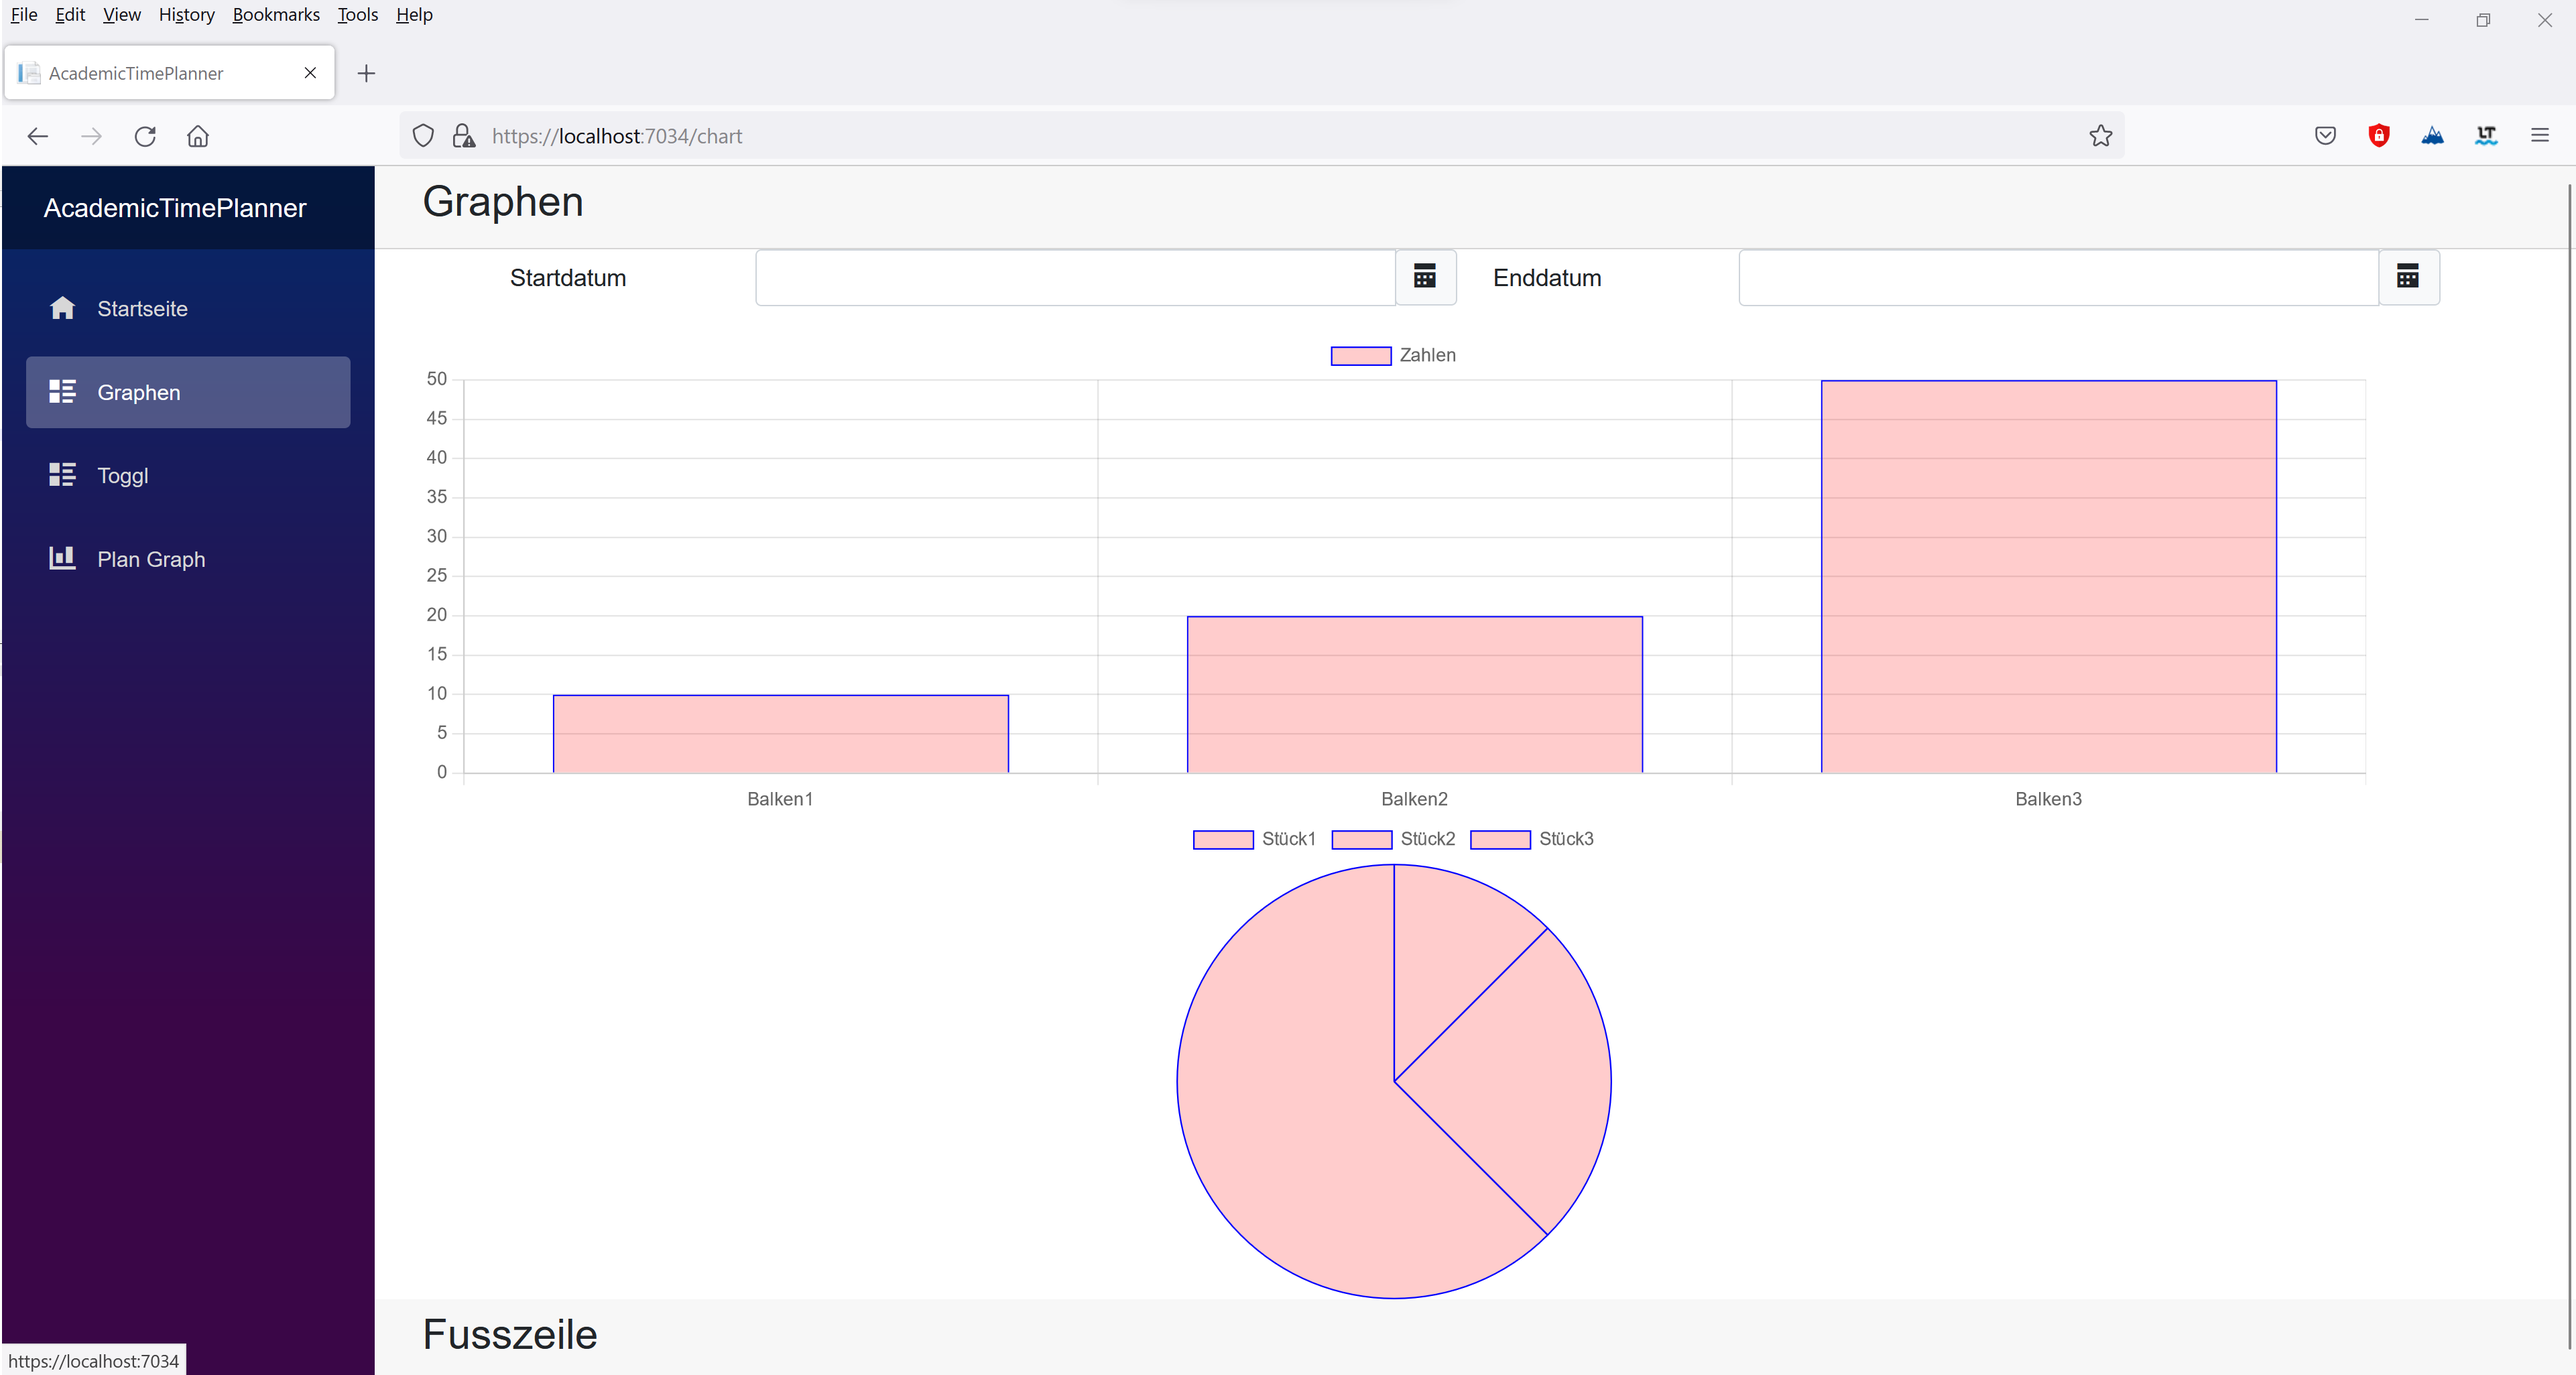
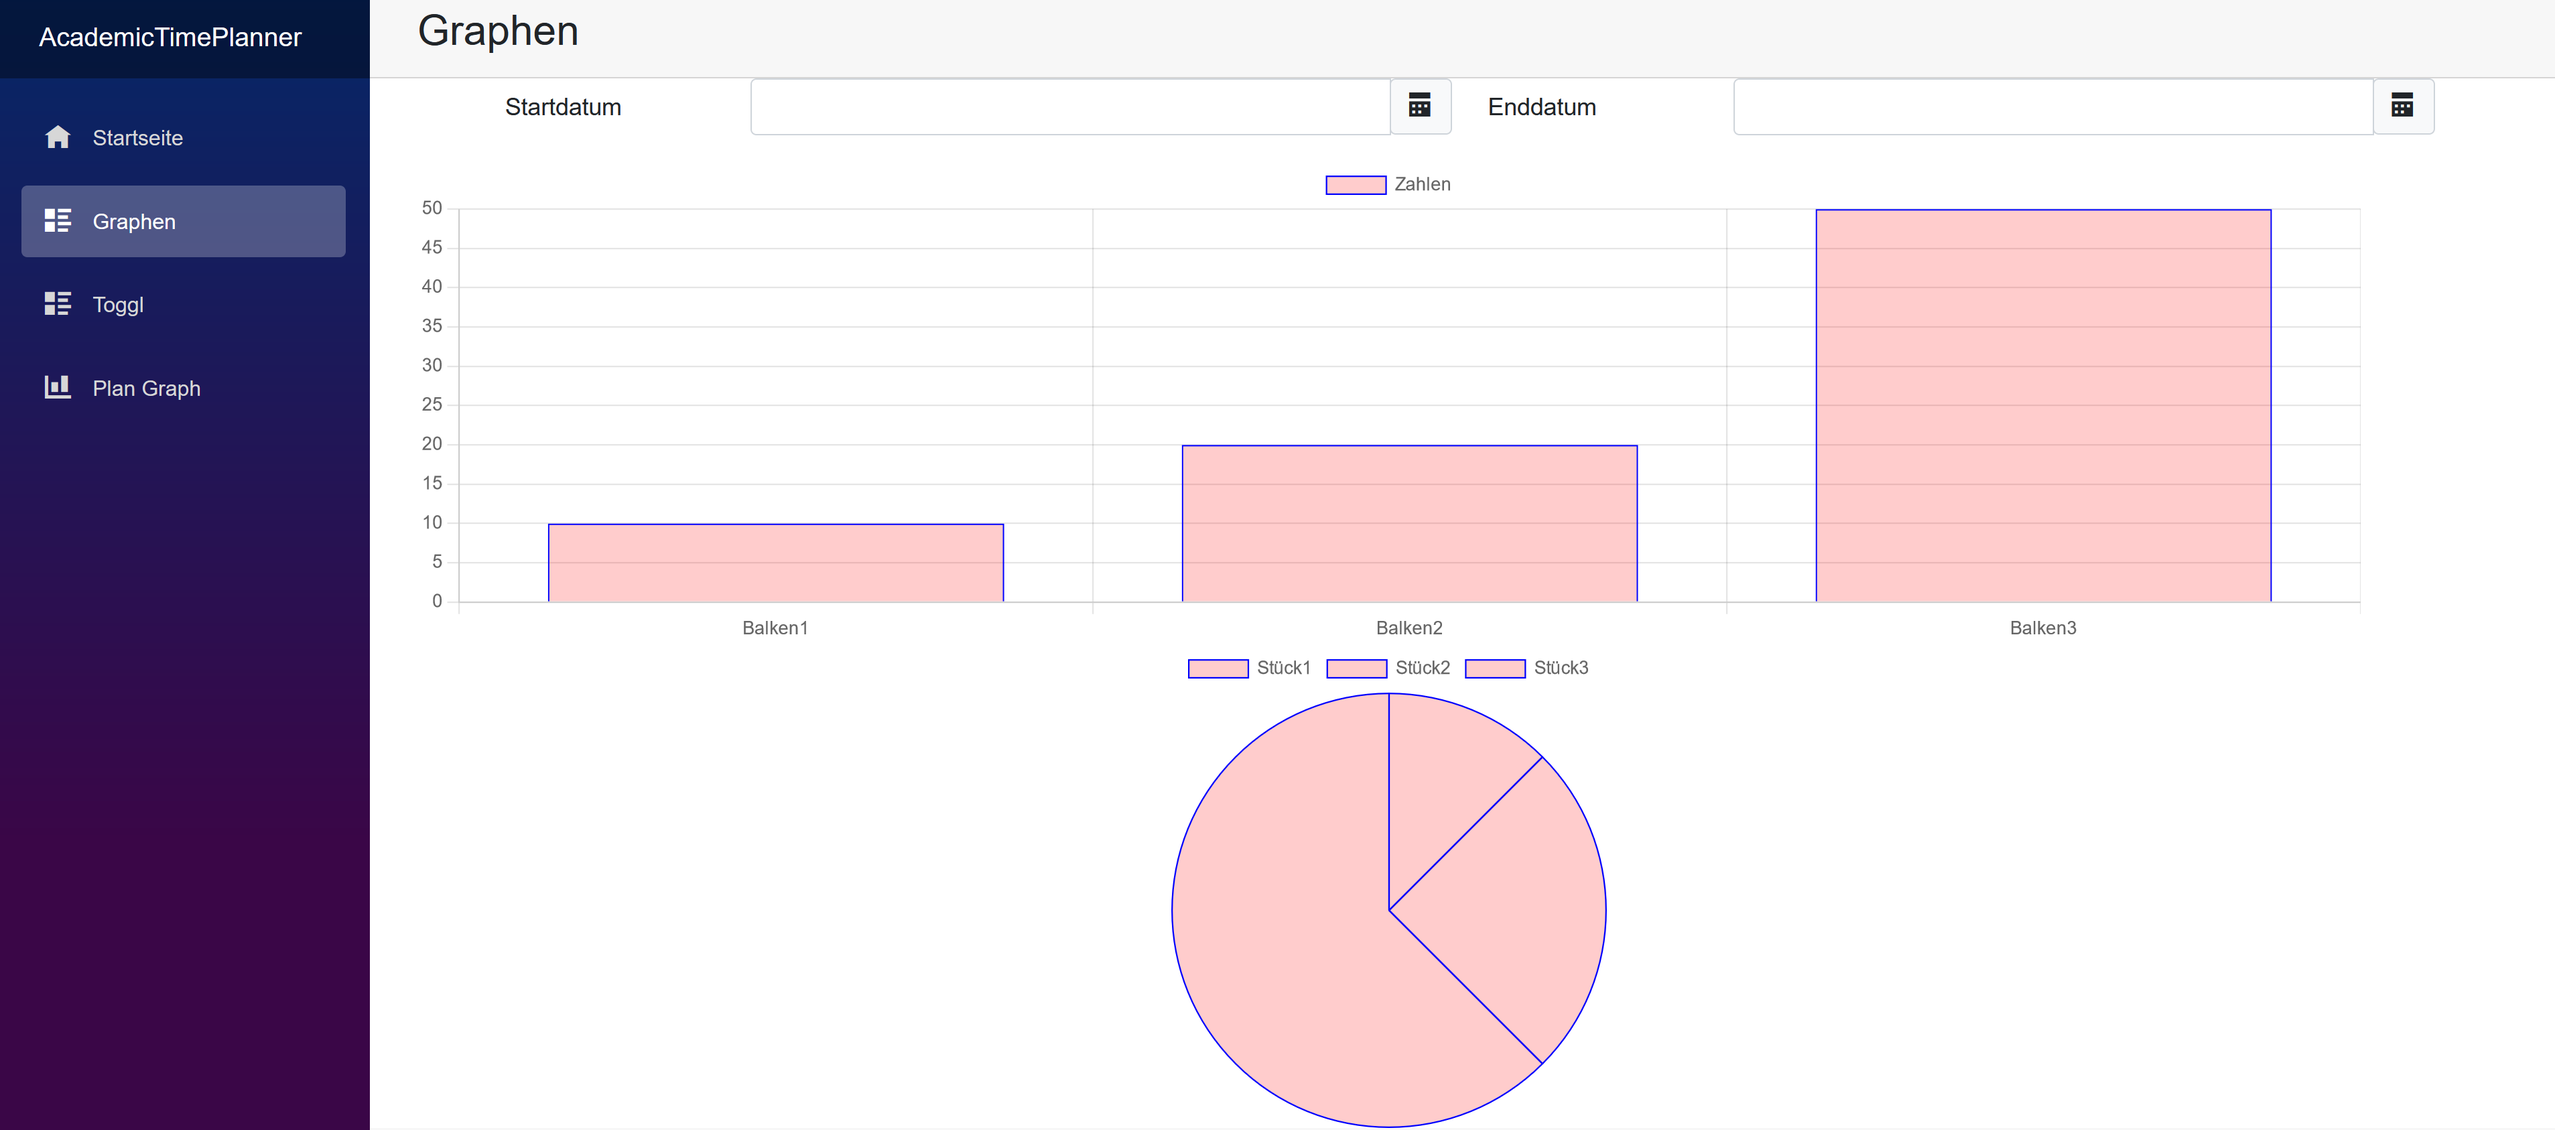
resize figures

diff --git a/doc/parts/methods.tex b/doc/parts/methods.tex
@@ -30,21 +30,21 @@ All four packages were tested by trying to include a sample chart into the appli
 
 \begin{figure}[H]
 	\centering
-	\includegraphics[width=1.0\columnwidth]{blazorise-charts}
+	\includegraphics[width=0.9\columnwidth]{blazorise-charts}
 	\caption{Blazorise sample charts on the ATP charts page}
 	\label{blazorise}
 \end{figure}
 
 \begin{figure}[H]
 	\centering
-	\includegraphics[width=1.0\columnwidth]{plotly-charts}
+	\includegraphics[width=0.9\columnwidth]{plotly-charts}
 	\caption{Plotly.Blazor sample charts on the ATP charts page}
 	\label{plotly}
 \end{figure}
 
 \begin{figure}[H]
 	\centering
-	\includegraphics[width=1.0\columnwidth]{radzen-charts}
+	\includegraphics[width=0.9\columnwidth]{radzen-charts}
 	\caption{Radzen sample charts on the ATP charts page}
 	\label{radzen}
 \end{figure}
